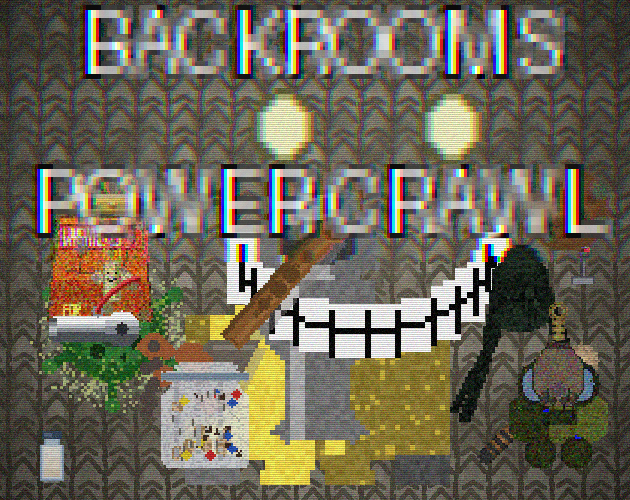
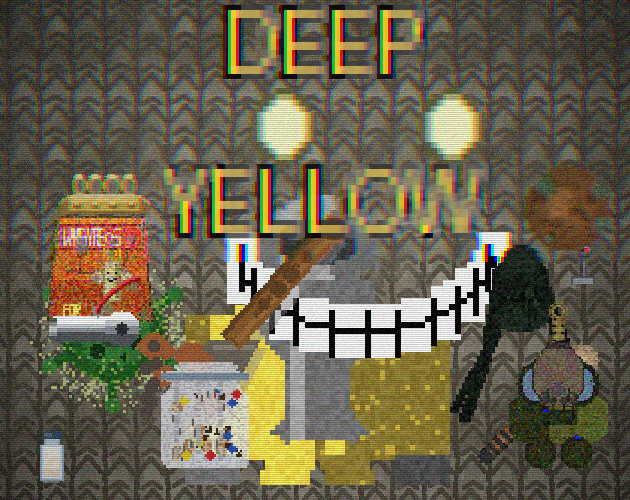
rebrand: Rename from Backrooms Power Crawl to DEEP YELLOW
Full project rename across all code, docs, assets, and infrastructure:
- project.godot: config/name and description
- export_presets.cfg: executable names (bpc -> deep_yellow)
- In-game title: start_menu.gd and main_menu.tscn
- CLAUDE.md: project name, itch.io slug, butler commands, build paths
- TODO.md, serve_web.py, VHS shader comment
- 14 texture generation script docstrings
- itch.io banner and cover: regenerated with deep yellow title text
- GitHub repo renamed to aebrer/deep-yellow via gh CLI

🤖 Generated with [Claude Code](https://claude.com/claude-code)

Changed region(s): [[0.1206, 0.0, 0.9048, 0.18], [0.0302, 0.33, 0.9952, 0.48]]

diff --git a/_claude_scripts/textures/itch_cover/generate.py b/_claude_scripts/textures/itch_cover/generate.py
@@ -1,6 +1,6 @@
 #!/usr/bin/env python3
 """
-Generate itch.io cover image for Backrooms Power Crawl.
+Generate itch.io cover image for DEEP YELLOW.
 
 Creates a 630x500px promotional image using existing game assets.
 REVISION 2: Based on user feedback:
@@ -171,7 +171,7 @@ def draw_text_with_outline(text, outline_width=3):
 
     # Text colors
     outline_color = (0, 0, 0, 255)      # Black outline
-    text_color = (255, 255, 255, 255)   # White text
+    text_color = (255, 210, 50, 255)    # Deep yellow text
 
     # Default font
     font = ImageFont.load_default()
@@ -190,8 +190,8 @@ def draw_text_with_outline(text, outline_width=3):
     small_surface = Image.new("RGBA", (text_width + 10, text_height + 10), (0, 0, 0, 0))
     small_draw = ImageDraw.Draw(small_surface)
 
-    # Draw text on small surface (white)
-    small_draw.text((5, 5), text, fill=(255, 255, 255, 255), font=font)
+    # Draw text on small surface (deep yellow)
+    small_draw.text((5, 5), text, fill=text_color, font=font)
 
     # Scale up using nearest neighbor for crisp pixels
     large_surface = small_surface.resize(
@@ -219,7 +219,7 @@ def draw_text_with_outline(text, outline_width=3):
             black_surface = Image.fromarray(black_arr, mode="RGBA")
             outline_surface.paste(black_surface, (outline_width + dx, outline_width + dy), black_surface)
 
-    # Paste white text on top
+    # Paste yellow text on top
     outline_surface.paste(large_surface, (outline_width, outline_width), large_surface)
 
     return outline_surface, (large_surface.width, large_surface.height)
@@ -364,14 +364,14 @@ def create_cover():
     print("Adding title...")
 
     # Create text surfaces with outline (thicker outline)
-    print("  Rendering 'BACKROOMS'...")
+    print("  Rendering 'DEEP'...")
     backrooms_surface, (br_w, br_h) = draw_text_with_outline(
-        "BACKROOMS", outline_width=5
+        "DEEP", outline_width=5
     )
 
-    print("  Rendering 'POWER CRAWL'...")
+    print("  Rendering 'YELLOW'...")
     powercrawl_surface, (pc_w, pc_h) = draw_text_with_outline(
-        "POWER CRAWL", outline_width=5
+        "YELLOW", outline_width=5
     )
 
     # Calculate total title block height

diff --git a/_claude_scripts/textures/itch_banner/generate.py b/_claude_scripts/textures/itch_banner/generate.py
@@ -1,6 +1,6 @@
 #!/usr/bin/env python3
 """
-Generate itch.io banner for Backrooms Power Crawl
+Generate itch.io banner for DEEP YELLOW
 Output: 960x300 panoramic banner with game title and sprites
 """
 
@@ -122,8 +122,8 @@ def draw_text_with_outline(draw, text, position, font_size=60, outline_width=4):
             if offset_x != 0 or offset_y != 0:
                 draw.text((x + offset_x, y + offset_y), text, font=font, fill=(0, 0, 0, 255))
 
-    # Draw white main text
-    draw.text((x, y), text, font=font, fill=(255, 255, 255, 255))
+    # Draw deep yellow main text
+    draw.text((x, y), text, font=font, fill=(255, 210, 50, 255))
 
     return font
 
@@ -163,7 +163,7 @@ def composite_sprite(canvas, sprite_path, position, scale=1.0, flip=False):
 
 def generate_banner():
     """Generate the complete banner"""
-    print("Generating Backrooms Power Crawl itch.io banner...")
+    print("Generating DEEP YELLOW itch.io banner...")
 
     # Create tiled wallpaper background
     print("  → Tiling wallpaper background...")
@@ -174,7 +174,7 @@ def generate_banner():
     draw = ImageDraw.Draw(canvas)
 
     # Title on one line
-    title = "BACKROOMS POWER CRAWL"
+    title = "DEEP YELLOW"
     font = draw_text_with_outline(
         draw,
         title,

diff --git a/_claude_scripts/textures/ceiling_stain/generate.py b/_claude_scripts/textures/ceiling_stain/generate.py
@@ -1,6 +1,6 @@
 #!/usr/bin/env python3
 """
-Generates a tileable ceiling water stain texture for Backrooms Power Crawl.
+Generates a tileable ceiling water stain texture for DEEP YELLOW.
 
 Loads the existing acoustic ceiling texture and overlays a yellowish-brown
 water stain with irregular edges and concentric ring patterns.

diff --git a/_claude_scripts/textures/wall_hole/generate.py b/_claude_scripts/textures/wall_hole/generate.py
@@ -1,6 +1,6 @@
 #!/usr/bin/env python3
 """
-Generate a tileable wall hole texture for Backrooms Power Crawl.
+Generate a tileable wall hole texture for DEEP YELLOW.
 Shows yellow wallpaper with a BOTTOM-OPENING CRAWL HOLE - like a rabbit hole
 or crawl space at floor level. Human-sized, dark void inside, ragged edges.
 """

diff --git a/_claude_scripts/textures/bacteria_spreader/generate.py b/_claude_scripts/textures/bacteria_spreader/generate.py
@@ -1,6 +1,6 @@
 #!/usr/bin/env python3
 """
-Generate Bacteria Spreader entity texture for Backrooms Power Crawl.
+Generate Bacteria Spreader entity texture for DEEP YELLOW.
 
 The Bacteria Spreader: A support enemy that heals nearby bacteria.
 Visually distinct from bacteria_spawn - more bulbous with spreading tendrils.

diff --git a/_claude_scripts/textures/ceiling_hole/generate.py b/_claude_scripts/textures/ceiling_hole/generate.py
@@ -1,6 +1,6 @@
 #!/usr/bin/env python3
 """
-Generates a tileable ceiling hole texture for Backrooms Power Crawl.
+Generates a tileable ceiling hole texture for DEEP YELLOW.
 Takes the existing acoustic ceiling texture and adds a broken/missing section
 revealing dark void and hints of infrastructure above.
 """

diff --git a/_claude_scripts/textures/debug_item/generate.py b/_claude_scripts/textures/debug_item/generate.py
@@ -1,6 +1,6 @@
 #!/usr/bin/env python3
 """
-DEBUG_ITEM sprite generator for Backrooms Power Crawl
+DEBUG_ITEM sprite generator for DEEP YELLOW
 Generates a 64x64 PSX-style sprite of a malfunctioning anomaly containment device
 """
 from PIL import Image, ImageDraw

diff --git a/_claude_scripts/textures/bacteria_spawn/generate.py b/_claude_scripts/textures/bacteria_spawn/generate.py
@@ -1,6 +1,6 @@
 #!/usr/bin/env python3
 """
-Bacteria Spawn sprite generator for Backrooms Power Crawl
+Bacteria Spawn sprite generator for DEEP YELLOW
 Generates a 64x64 PSX-style sprite of a small, spindly bug-rat creature
 """
 from PIL import Image, ImageDraw

diff --git a/_claude_scripts/textures/mannequin/generate.py b/_claude_scripts/textures/mannequin/generate.py
@@ -1,7 +1,7 @@
 #!/usr/bin/env python3
 """
 Generate a 64x64 pixel art sprite of a department store plastic mannequin.
-PSX-style horror aesthetic for Backrooms Power Crawl.
+PSX-style horror aesthetic for DEEP YELLOW.
 """
 
 from PIL import Image, ImageDraw

diff --git a/_claude_scripts/textures/smiler/generate.py b/_claude_scripts/textures/smiler/generate.py
@@ -1,6 +1,6 @@
 #!/usr/bin/env python3
 """
-Generate Smiler entity texture for Backrooms Power Crawl.
+Generate Smiler entity texture for DEEP YELLOW.
 
 The Smiler: A classic Backrooms entity - glowing eyes and an unnerving
 wide smile floating in darkness.

diff --git a/scripts/serve_web.py b/scripts/serve_web.py
@@ -73,7 +73,7 @@ def main():
 
     print()
     print("=" * 70)
-    print("Backrooms Power Crawl - Web Export Server")
+    print("DEEP YELLOW - Web Export Server")
     print("=" * 70)
     print()
     print(f"Server running at: http://localhost:{PORT}")

diff --git a/_claude_scripts/textures/brass_knuckles/generate.py b/_claude_scripts/textures/brass_knuckles/generate.py
@@ -1,6 +1,6 @@
 #!/usr/bin/env python3
 """
-Brass Knuckles sprite generator for Backrooms Power Crawl
+Brass Knuckles sprite generator for DEEP YELLOW
 Generates a 64x64 PSX-style sprite of brass knuckles (BODY item)
 """
 from PIL import Image, ImageDraw
